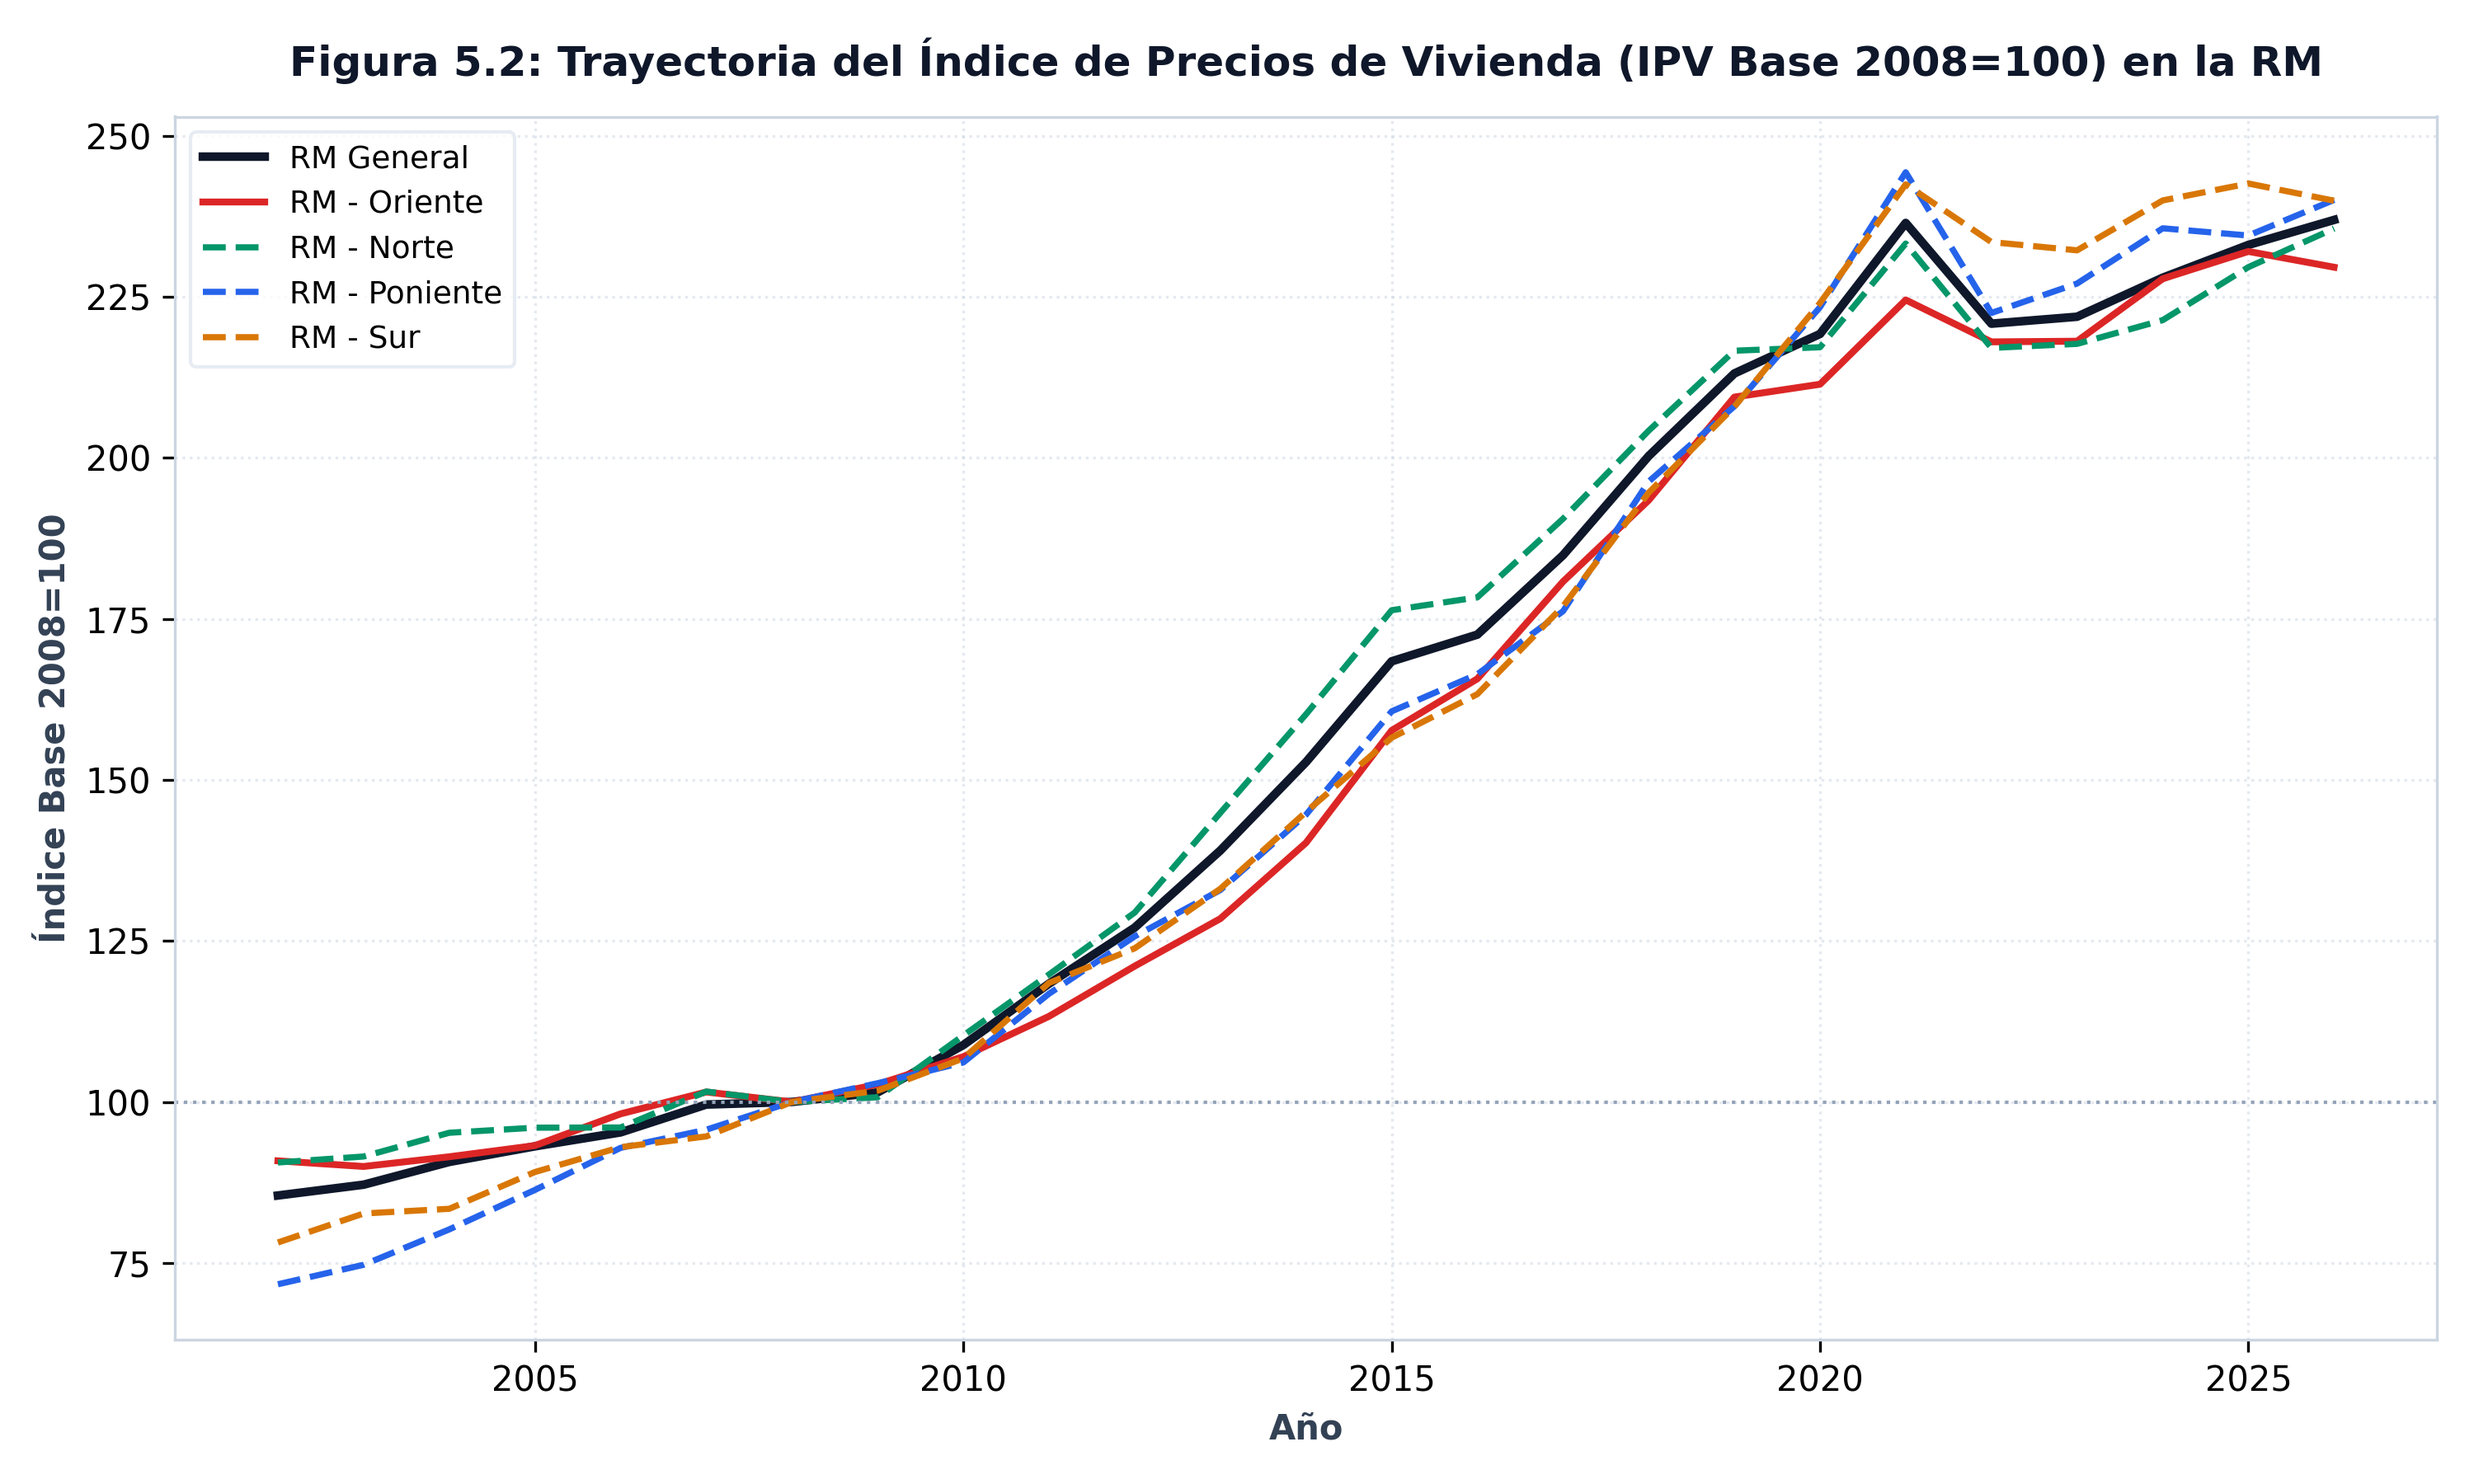
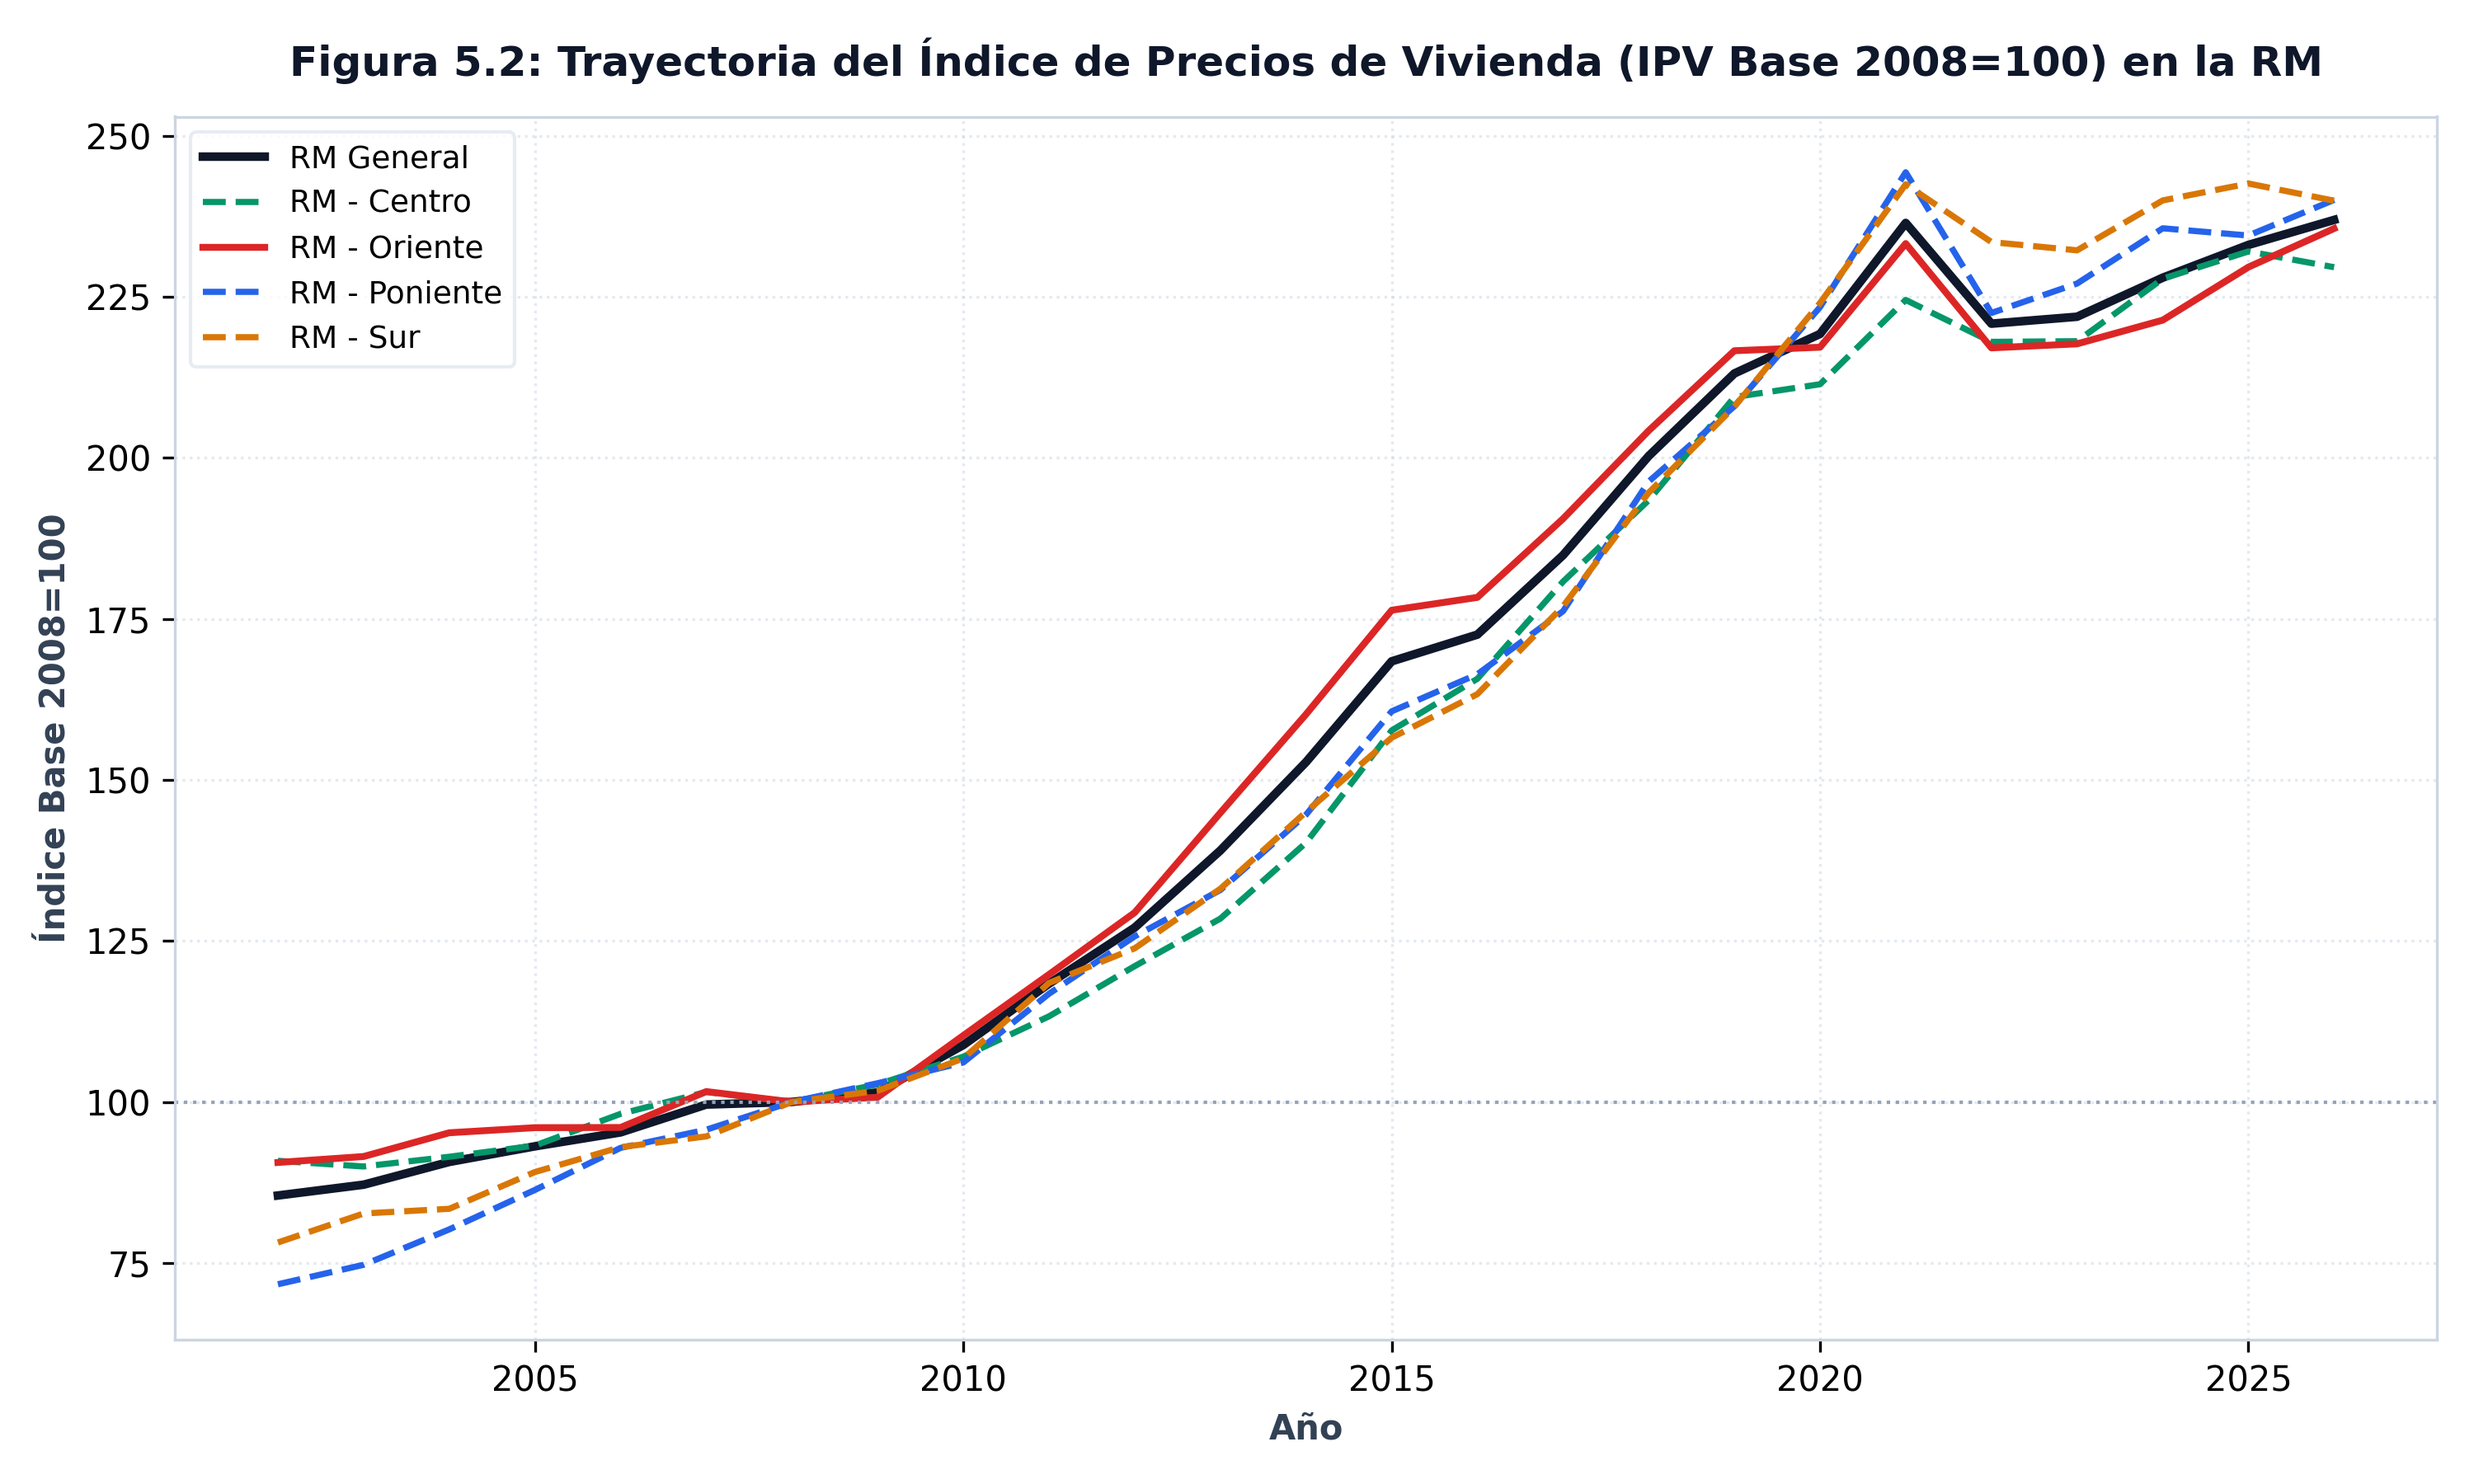
Actualización de etiquetas oficiales del IPV en Reporte 5

diff --git a/bcch/reportes/report5-reserva-valor.html b/bcch/reportes/report5-reserva-valor.html
@@ -544,7 +544,7 @@ window.Quarto = {
 </thead>
 <tbody>
 <tr class="odd">
-<td style="text-align: left;"><strong>Región Metropolitana (RM General)</strong></td>
+<td style="text-align: left;"><strong>Región Metropolitana (RM General, <code>IPVZ4</code>)</strong></td>
 <td style="text-align: center;">81,5</td>
 <td style="text-align: center;">100,0</td>
 <td style="text-align: center;">145,8</td>
@@ -553,67 +553,67 @@ window.Quarto = {
 <td style="text-align: center;"><strong>+190,7%</strong></td>
 </tr>
 <tr class="even">
-<td style="text-align: left;"><em>RM - Zona Oriente (<code>IPVZ41</code>)</em></td>
-<td style="text-align: center;">80,1</td>
+<td style="text-align: left;"><em>RM - Centro (<code>IPVZ41</code>)</em></td>
+<td style="text-align: center;">86,7</td>
+<td style="text-align: center;">100,0</td>
+<td style="text-align: center;">145,1</td>
+<td style="text-align: center;">236,3</td>
+<td style="text-align: center;">229,6</td>
+<td style="text-align: center;">+164,8%</td>
+</tr>
+<tr class="odd">
+<td style="text-align: left;"><em>RM - Oriente (<code>IPVZ42</code>)</em></td>
+<td style="text-align: center;">86,2</td>
 <td style="text-align: center;">100,0</td>
 <td style="text-align: center;">148,2</td>
-<td style="text-align: center;">245,6</td>
-<td style="text-align: center;">244,1</td>
-<td style="text-align: center;">+204,7%</td>
+<td style="text-align: center;">235,6</td>
+<td style="text-align: center;">235,6</td>
+<td style="text-align: center;">+173,4%</td>
 </tr>
-<tr class="odd">
-<td style="text-align: left;"><em>RM - Zona Poniente (<code>IPVZ43</code>)</em></td>
-<td style="text-align: center;">82,4</td>
+<tr class="even">
+<td style="text-align: left;"><em>RM - Poniente (<code>IPVZ43</code>)</em></td>
+<td style="text-align: center;">68,5</td>
 <td style="text-align: center;">100,0</td>
 <td style="text-align: center;">143,1</td>
-<td style="text-align: center;">234,2</td>
-<td style="text-align: center;">231,8</td>
-<td style="text-align: center;">+181,3%</td>
+<td style="text-align: center;">248,6</td>
+<td style="text-align: center;">240,0</td>
+<td style="text-align: center;">+250,3%</td>
 </tr>
-<tr class="even">
-<td style="text-align: left;"><em>RM - Zona Sur (<code>IPVZ44</code>)</em></td>
-<td style="text-align: center;">81,9</td>
+<tr class="odd">
+<td style="text-align: left;"><em>RM - Sur (<code>IPVZ44</code>)</em></td>
+<td style="text-align: center;">75,4</td>
 <td style="text-align: center;">100,0</td>
 <td style="text-align: center;">141,5</td>
-<td style="text-align: center;">232,0</td>
-<td style="text-align: center;">229,5</td>
-<td style="text-align: center;">+180,2%</td>
-</tr>
-<tr class="odd">
-<td style="text-align: left;"><em>RM - Zona Norte (<code>IPVZ42</code>)</em></td>
-<td style="text-align: center;">83,0</td>
-<td style="text-align: center;">100,0</td>
-<td style="text-align: center;">142,8</td>
-<td style="text-align: center;">236,1</td>
-<td style="text-align: center;">233,4</td>
-<td style="text-align: center;">+181,2%</td>
+<td style="text-align: center;">248,0</td>
+<td style="text-align: center;">239,9</td>
+<td style="text-align: center;">+218,0%</td>
 </tr>
 <tr class="even">
-<td style="text-align: left;"><strong>Macro-Zona Norte</strong></td>
-<td style="text-align: center;">85,1</td>
+<td style="text-align: left;"><strong>Macro-Zona Norte (<code>IVPZ1</code>)</strong></td>
+<td style="text-align: center;">69,0</td>
 <td style="text-align: center;">100,0</td>
 <td style="text-align: center;">138,5</td>
-<td style="text-align: center;">218,4</td>
-<td style="text-align: center;">216,9</td>
-<td style="text-align: center;">+154,9%</td>
+<td style="text-align: center;">205,6</td>
+<td style="text-align: center;">180,2</td>
+<td style="text-align: center;">+161,1%</td>
 </tr>
 <tr class="odd">
-<td style="text-align: left;"><strong>Macro-Zona Centro</strong></td>
-<td style="text-align: center;">84,0</td>
+<td style="text-align: left;"><strong>Macro-Zona Centro (<code>IPVZ2</code>)</strong></td>
+<td style="text-align: center;">79,7</td>
 <td style="text-align: center;">100,0</td>
 <td style="text-align: center;">139,2</td>
-<td style="text-align: center;">222,1</td>
-<td style="text-align: center;">220,5</td>
-<td style="text-align: center;">+162,5%</td>
+<td style="text-align: center;">203,4</td>
+<td style="text-align: center;">196,9</td>
+<td style="text-align: center;">+147,1%</td>
 </tr>
 <tr class="even">
-<td style="text-align: left;"><strong>Macro-Zona Sur</strong></td>
-<td style="text-align: center;">84,6</td>
+<td style="text-align: left;"><strong>Macro-Zona Sur (<code>IPVZ3</code>)</strong></td>
+<td style="text-align: center;">78,2</td>
 <td style="text-align: center;">100,0</td>
 <td style="text-align: center;">137,9</td>
-<td style="text-align: center;">220,3</td>
-<td style="text-align: center;">218,7</td>
-<td style="text-align: center;">+158,5%</td>
+<td style="text-align: center;">218,1</td>
+<td style="text-align: center;">215,0</td>
+<td style="text-align: center;">+174,8%</td>
 </tr>
 </tbody>
 </table>
